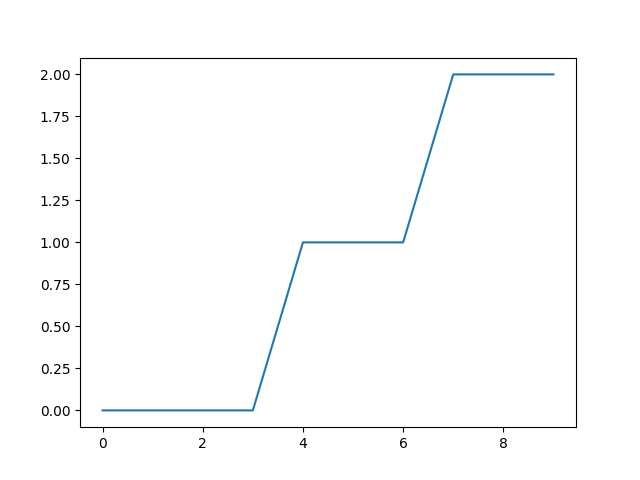
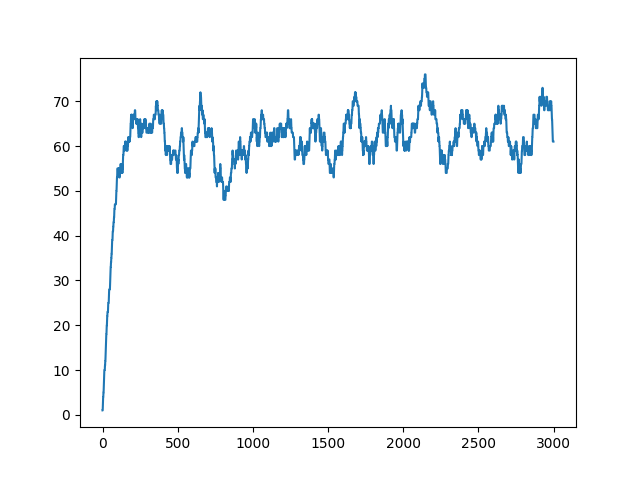
feat: start of part2 with acc 61%

diff --git a/part2/frozen_lake.py b/part2/frozen_lake.py
@@ -2,6 +2,7 @@ import gymnasium as gym
 import numpy as np
 import matplotlib.pyplot as plt
 import pickle
+import argparse
 
 
 def print_success_rate(rewards_per_episode):
@@ -23,10 +24,10 @@ def run(episodes, is_training=True, render=False):
         q = pickle.load(f)
         f.close()
 
-    learning_rate_a = 0.9 # alpha or learning rate
-    discount_factor_g = 0.9 # gamma or discount rate. Near 0: more weight/reward placed on immediate state. Near 1: more on future state.
+    learning_rate_a = 0.034755 # alpha or learning rate
+    discount_factor_g = 0.983 # gamma or discount rate. Near 0: more weight/reward placed on immediate state. Near 1: more on future state.
     epsilon = 1         # 1 = 100% random actions
-    epsilon_decay_rate = 0.0001        # epsilon decay rate. 1/0.0001 = 10,000
+    epsilon_decay_rate = 0.000096        # epsilon decay rate. 1/0.0001 = 10,000
     rng = np.random.default_rng()   # random number generator
 
     rewards_per_episode = np.zeros(episodes)
@@ -54,7 +55,7 @@ def run(episodes, is_training=True, render=False):
         epsilon = max(epsilon - epsilon_decay_rate, 0)
 
         if(epsilon==0):
-            learning_rate_a = 0.0001
+            learning_rate_a = 0.001
 
         if reward == 1:
             rewards_per_episode[i] = 1
@@ -74,8 +75,13 @@ def run(episodes, is_training=True, render=False):
         f = open("frozen_lake8x8.pkl","wb")
         pickle.dump(q, f)
         f.close()
+        print_success_rate(rewards_per_episode[-1000:])
 
 if __name__ == '__main__':
-    # run(15000, is_training=True, render=False)
-
-    run(10, is_training=False, render=True)
+    parser = argparse.ArgumentParser(description="Frozen Lake Agent Runner")
+    parser.add_argument('--train', action='store_true', help='Run in training mode')
+    args = parser.parse_args()
+    if args.train:
+        run(15000, is_training=True, render=False)
+    else:
+        run(3000, is_training=False, render=False)
